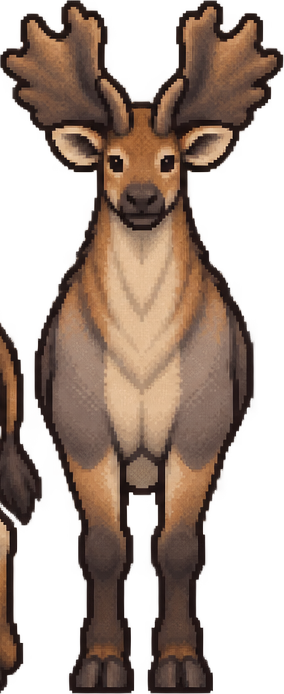
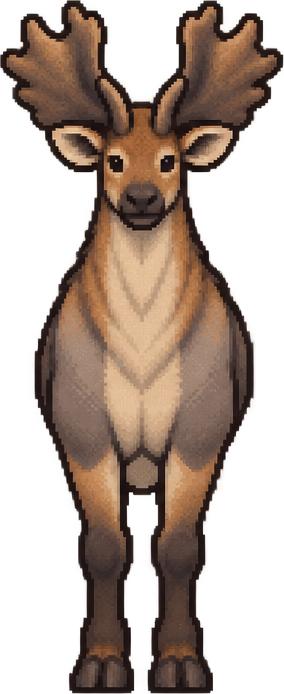
Cut each wanderer view as its own shape, and clear the sivatherium's strays
The builder cut every view by its bounding box, so a neighbour reaching
into the box came with it: the sivatherium walking towards you carried a
strip of its side view's tail and hind leg down its left edge, and
walking left, the tip of another antler in its top corner.

Every pixel is now labelled with its blob, and a frame keeps its own
blob and the glow within six pixels of it. `--tidy` applies the same to
frames already built, since the source sheets are in the git-ignored
dump; it rewrote only the two sivatherium views, the only frames with a
stray anyone could see. The box is unchanged, so the feet stay on the
bottom edge and the size in play does not move.

test/wanderers.test.ts now holds every painted view to one solid shape,
and fails by name on the two old files.

Claude-Session: https://claude.ai/code/session_014PMDYTJgoVqV2VamRZSmhF

Changed region(s): [[0.0, 0.4539, 0.169, 1.0]]

diff --git a/tools/build-wanderers.js b/tools/build-wanderers.js
@@ -18,7 +18,15 @@
 //
 // CommonJS and hand-rolled PNG, like everything in tools/ -- see tools/sprite-png.js.
 //
+// **A frame is its own blob, not its bounding box.** Cutting the box alone brought a neighbour in
+// wherever one reached into it: the sivatherium's front view shipped with a strip of the side
+// view's tail and hind leg down its left edge, and the left view with the tip of another antler in
+// its top corner. Every pixel is now labelled with the blob it belongs to, and a frame keeps its own
+// blob and the soft glow within `HALO` of it -- nothing else in the box.
+//
 // Usage: node tools/build-wanderers.js [--force]
+//        node tools/build-wanderers.js --tidy    clear strays from the frames already built, whose
+//                                                source sheets live in the git-ignored dump
 
 const fs = require('fs');
 const path = require('path');
@@ -42,11 +50,19 @@ const SOLID = 40;
 /** A blob under this share of the biggest is a speck of stray glow, not a fifth view. */
 const SPECK = 0.06;
 
-/** Every connected run of solid pixels, as bounding boxes. Iterative: these sheets are 1.5
- *  megapixels and a recursive fill blows the stack. */
+/**
+ * How far a view's soft glow reaches past its solid outline, in pixels. The halo these sheets carry
+ * fades out within four or five; a neighbour's pixels begin well beyond that, which is how a stray
+ * is told from an edge.
+ */
+const HALO = 6;
+
+/** Every connected run of solid pixels, as bounding boxes, with `labels` saying which blob each
+ *  pixel is (0 for none). Iterative: these sheets are 1.5 megapixels and a recursive fill blows the
+ *  stack. */
 function blobs(png) {
   const { width: w, height: h, data } = png;
-  const seen = new Uint8Array(w * h);
+  const seen = new Int32Array(w * h);
   const found = [];
   const solid = (i) => data[i * 4 + 3] > SOLID;
 
@@ -57,8 +73,9 @@ function blobs(png) {
     let minY = h;
     let maxY = -1;
     let count = 0;
+    const label = found.length + 1;
     const stack = [start];
-    seen[start] = 1;
+    seen[start] = label;
     while (stack.length) {
       const i = stack.pop();
       const x = i % w;
@@ -76,14 +93,49 @@ function blobs(png) {
           if (nx < 0 || ny < 0 || nx >= w || ny >= h) continue;
           const j = ny * w + nx;
           if (seen[j] || !solid(j)) continue;
-          seen[j] = 1;
+          seen[j] = label;
           stack.push(j);
         }
       }
     }
-    found.push({ minX, maxX, minY, maxY, count });
+    found.push({ label, minX, maxX, minY, maxY, count });
   }
+  found.labels = seen;
   return found;
+}
+
+/**
+ * Every pixel within `HALO` of blob `label`, as a mask: the view itself and its own glow. A
+ * breadth-first reach outward from the solid pixels, stopped at `HALO` steps.
+ */
+function reach(png, labels, label) {
+  const { width: w, height: h } = png;
+  const dist = new Int16Array(w * h).fill(-1);
+  let frontier = [];
+  for (let i = 0; i < w * h; i += 1) {
+    if (labels[i] === label) {
+      dist[i] = 0;
+      frontier.push(i);
+    }
+  }
+  for (let d = 1; d <= HALO; d += 1) {
+    const next = [];
+    for (const i of frontier) {
+      const x = i % w;
+      const y = (i / w) | 0;
+      for (const [dx, dy] of [[1, 0], [-1, 0], [0, 1], [0, -1]]) {
+        const nx = x + dx;
+        const ny = y + dy;
+        if (nx < 0 || ny < 0 || nx >= w || ny >= h) continue;
+        const j = ny * w + nx;
+        if (dist[j] !== -1 || labels[j] !== 0) continue;
+        dist[j] = d;
+        next.push(j);
+      }
+    }
+    frontier = next;
+  }
+  return dist;
 }
 
 /** Reading order: rows top to bottom, then left to right within a row. */
@@ -99,8 +151,8 @@ function inReadingOrder(boxes) {
   return rows.flatMap((r) => r.items.sort((p, q) => p.minX - q.minX));
 }
 
-/** Cut one box out, trimmed to its own content, alpha preserved. */
-function cut(png, box) {
+/** Cut one box out, trimmed to its own content, alpha preserved, and nothing in it but `mine`. */
+function cut(png, box, mine) {
   const w = box.maxX - box.minX + 1;
   const h = box.maxY - box.minY + 1;
   const data = Buffer.alloc(w * h * 4);
@@ -108,6 +160,7 @@ function cut(png, box) {
     for (let x = 0; x < w; x += 1) {
       const from = ((box.minY + y) * png.width + (box.minX + x)) * 4;
       const to = (y * w + x) * 4;
+      if (mine[(box.minY + y) * png.width + (box.minX + x)] === -1) continue;
       png.data.copy(data, to, from, from + 4);
     }
   }
@@ -116,6 +169,28 @@ function cut(png, box) {
 
 const force = process.argv.includes('--force');
 fs.mkdirSync(OUT, { recursive: true });
+
+if (process.argv.includes('--tidy')) {
+  // Each built frame is treated as a sheet of one: its biggest blob is the animal, and the box it
+  // was cut to stays the box, so the feet stay on the bottom edge and the size in play is unchanged.
+  for (const file of fs.readdirSync(OUT).filter((f) => f.endsWith('.png')).sort()) {
+    const png = decodePng(path.join(OUT, file));
+    const all = blobs(png);
+    if (all.length === 0) continue;
+    const animal = all.reduce((a, b) => (b.count > a.count ? b : a));
+    const whole = { minX: 0, minY: 0, maxX: png.width - 1, maxY: png.height - 1 };
+    const out = cut(png, whole, reach(png, all.labels, animal.label));
+    // Counted in solid pixels: past `HALO` every sheet carries a faint dust at alpha 4 or less,
+    // and a frame is rewritten for a stray somebody could see, not for that.
+    const cleared = [...Array(png.width * png.height).keys()].filter(
+      (i) => png.data[i * 4 + 3] > SOLID && out.data[i * 4 + 3] === 0
+    ).length;
+    if (cleared === 0) continue;
+    fs.writeFileSync(path.join(OUT, file), encodePng(out.width, out.height, out.data));
+    console.log(`  tidied ${file}: ${cleared} stray pixels cleared`);
+  }
+  process.exit(0);
+}
 
 // **Named rather than globbed.** `assets/source/dump` is the shared drop for every kind of art in
 // this project -- plates, terrain, portraits, whatever somebody generated last -- so a glob here
@@ -156,7 +231,7 @@ for (const sheet of sheets) {
   }
 
   kept.forEach((box, i) => {
-    const out = cut(png, box);
+    const out = cut(png, box, reach(png, all.labels, box.label));
     const file = path.join(OUT, `${id}-${FACINGS[i]}.png`);
     fs.writeFileSync(file, encodePng(out.width, out.height, out.data));
     console.log(`  ok ${id}-${FACINGS[i]}.png  ${out.width}x${out.height}`);

diff --git a/test/wanderers.test.ts b/test/wanderers.test.ts
@@ -6,6 +6,9 @@
 // times, so the two halves are written together or not at all.
 
 import { describe, expect, it } from 'vitest';
+import { createRequire } from 'node:module';
+import { readdirSync } from 'node:fs';
+import { join } from 'node:path';
 import { buildFieldMap } from '../src/world/fieldMap';
 import { fieldMap } from '../src/content/places';
 import { isWalkable } from '../src/world/generate';
@@ -279,5 +282,63 @@ describe('an animal is drawn at the scale of the people on the road', () => {
 describe('a map with nothing authored to wander', () => {
   it('is empty rather than inventing an animal', () => {
     expect(wanderersOn('field_map_lothal', built('field_map_lothal'))).toEqual([]);
+  });
+});
+
+describe('a painted view is one animal', () => {
+  // The builder used to cut each view by its bounding box, which brought a neighbour in wherever
+  // one reached into the box: the sivatherium walking towards you had a strip of its own side view's
+  // tail and hind leg down its left edge, and walking left, another antler in its top corner. A view
+  // now keeps only its own blob -- `tools/build-wanderers.js` -- and this holds the shipped files to
+  // it: one solid shape, and nothing solid apart from it bigger than a speck.
+  const { decodePng } = createRequire(import.meta.url)('../tools/sprite-png.js') as {
+    decodePng: (file: string) => { width: number; height: number; data: Uint8Array };
+  };
+  const DIR = join(__dirname, '..', 'assets', 'wanderers');
+  const SOLID = 40; // the builder's own threshold: the glow is under it, the bodies well over
+  const SPECK = 0.01;
+
+  /** The sizes of every eight-connected run of solid pixels, biggest first. */
+  function shapes(file: string): number[] {
+    const { width: w, height: h, data } = decodePng(join(DIR, file));
+    const seen = new Uint8Array(w * h);
+    const sizes: number[] = [];
+    for (let start = 0; start < w * h; start += 1) {
+      if (seen[start] || data[start * 4 + 3]! <= SOLID) continue;
+      let size = 0;
+      const stack = [start];
+      seen[start] = 1;
+      while (stack.length) {
+        const i = stack.pop()!;
+        size += 1;
+        const x = i % w;
+        const y = (i / w) | 0;
+        for (let dy = -1; dy <= 1; dy += 1) {
+          for (let dx = -1; dx <= 1; dx += 1) {
+            const nx = x + dx;
+            const ny = y + dy;
+            if (nx < 0 || ny < 0 || nx >= w || ny >= h) continue;
+            const j = ny * w + nx;
+            if (seen[j] || data[j * 4 + 3]! <= SOLID) continue;
+            seen[j] = 1;
+            stack.push(j);
+          }
+        }
+      }
+      sizes.push(size);
+    }
+    return sizes.sort((a, b) => b - a);
+  }
+
+  const files = readdirSync(DIR).filter((f) => f.endsWith('.png'));
+
+  it('has painted views to check', () => {
+    expect(files.length).toBeGreaterThan(0);
+  });
+
+  it.each(files)('%s carries nothing of its neighbours', (file) => {
+    const [animal, ...rest] = shapes(file);
+    const strays = rest.filter((n) => n > animal! * SPECK);
+    expect(strays, `${file}: pieces of another view cut in with it`).toEqual([]);
   });
 });
